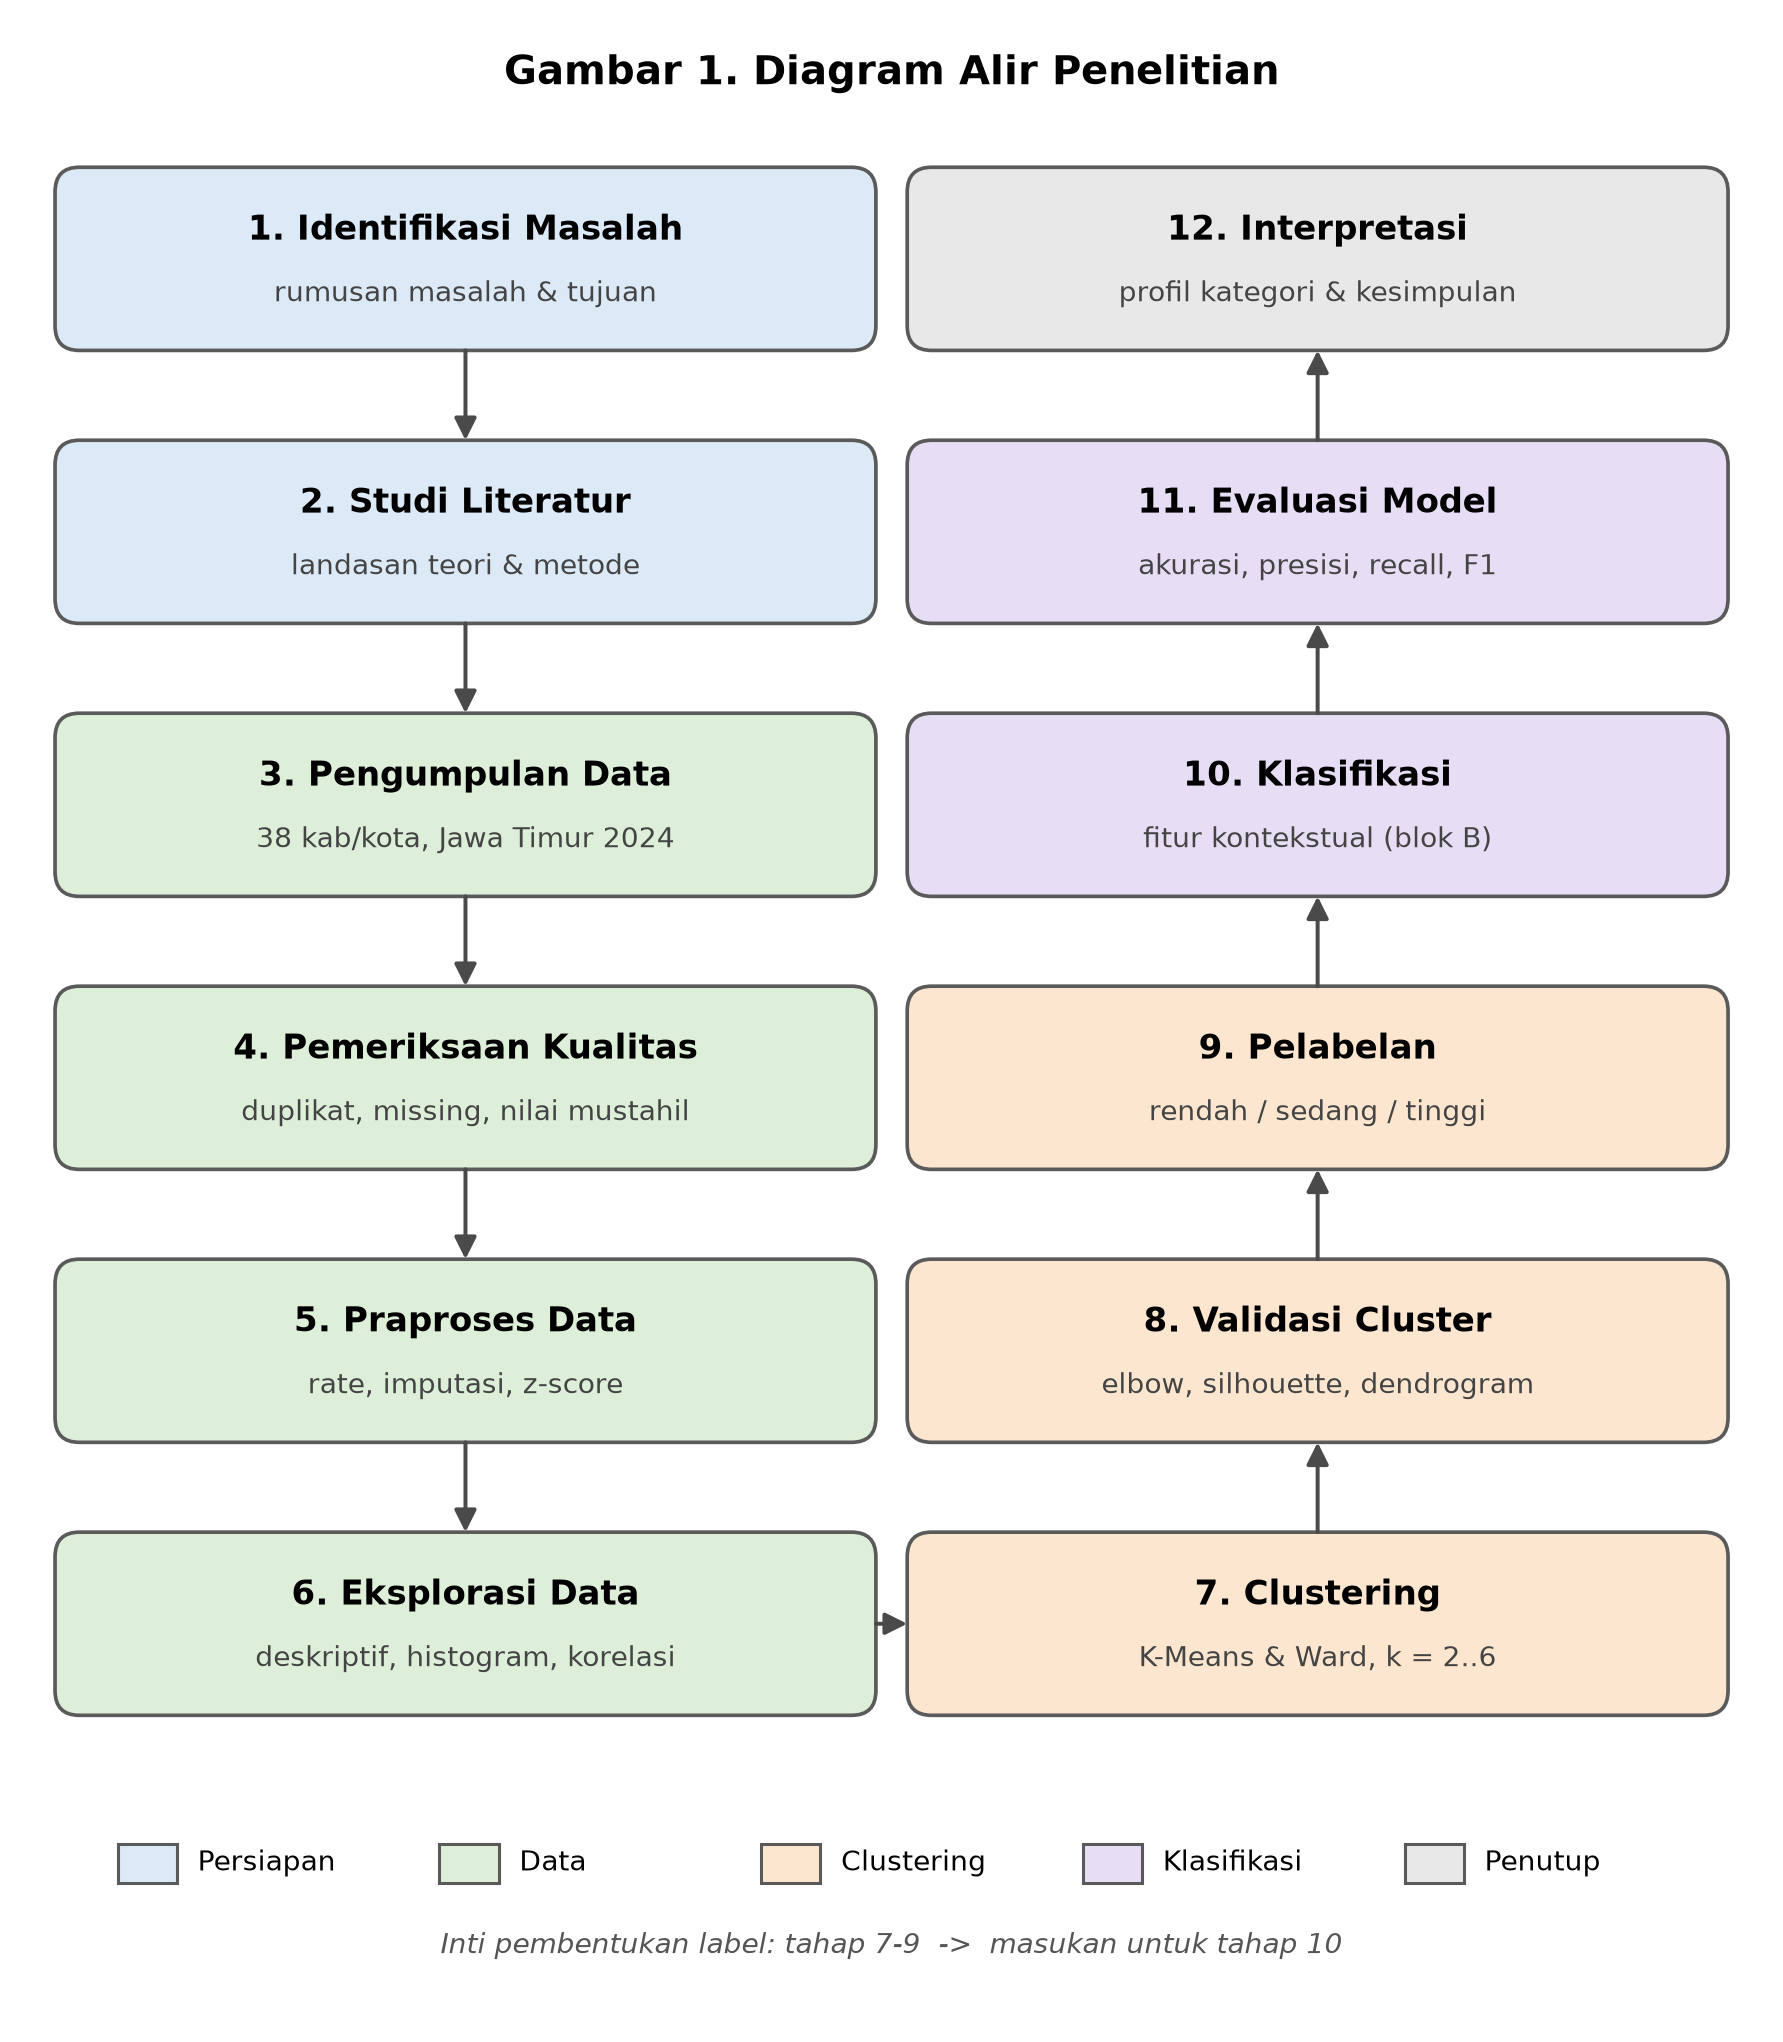
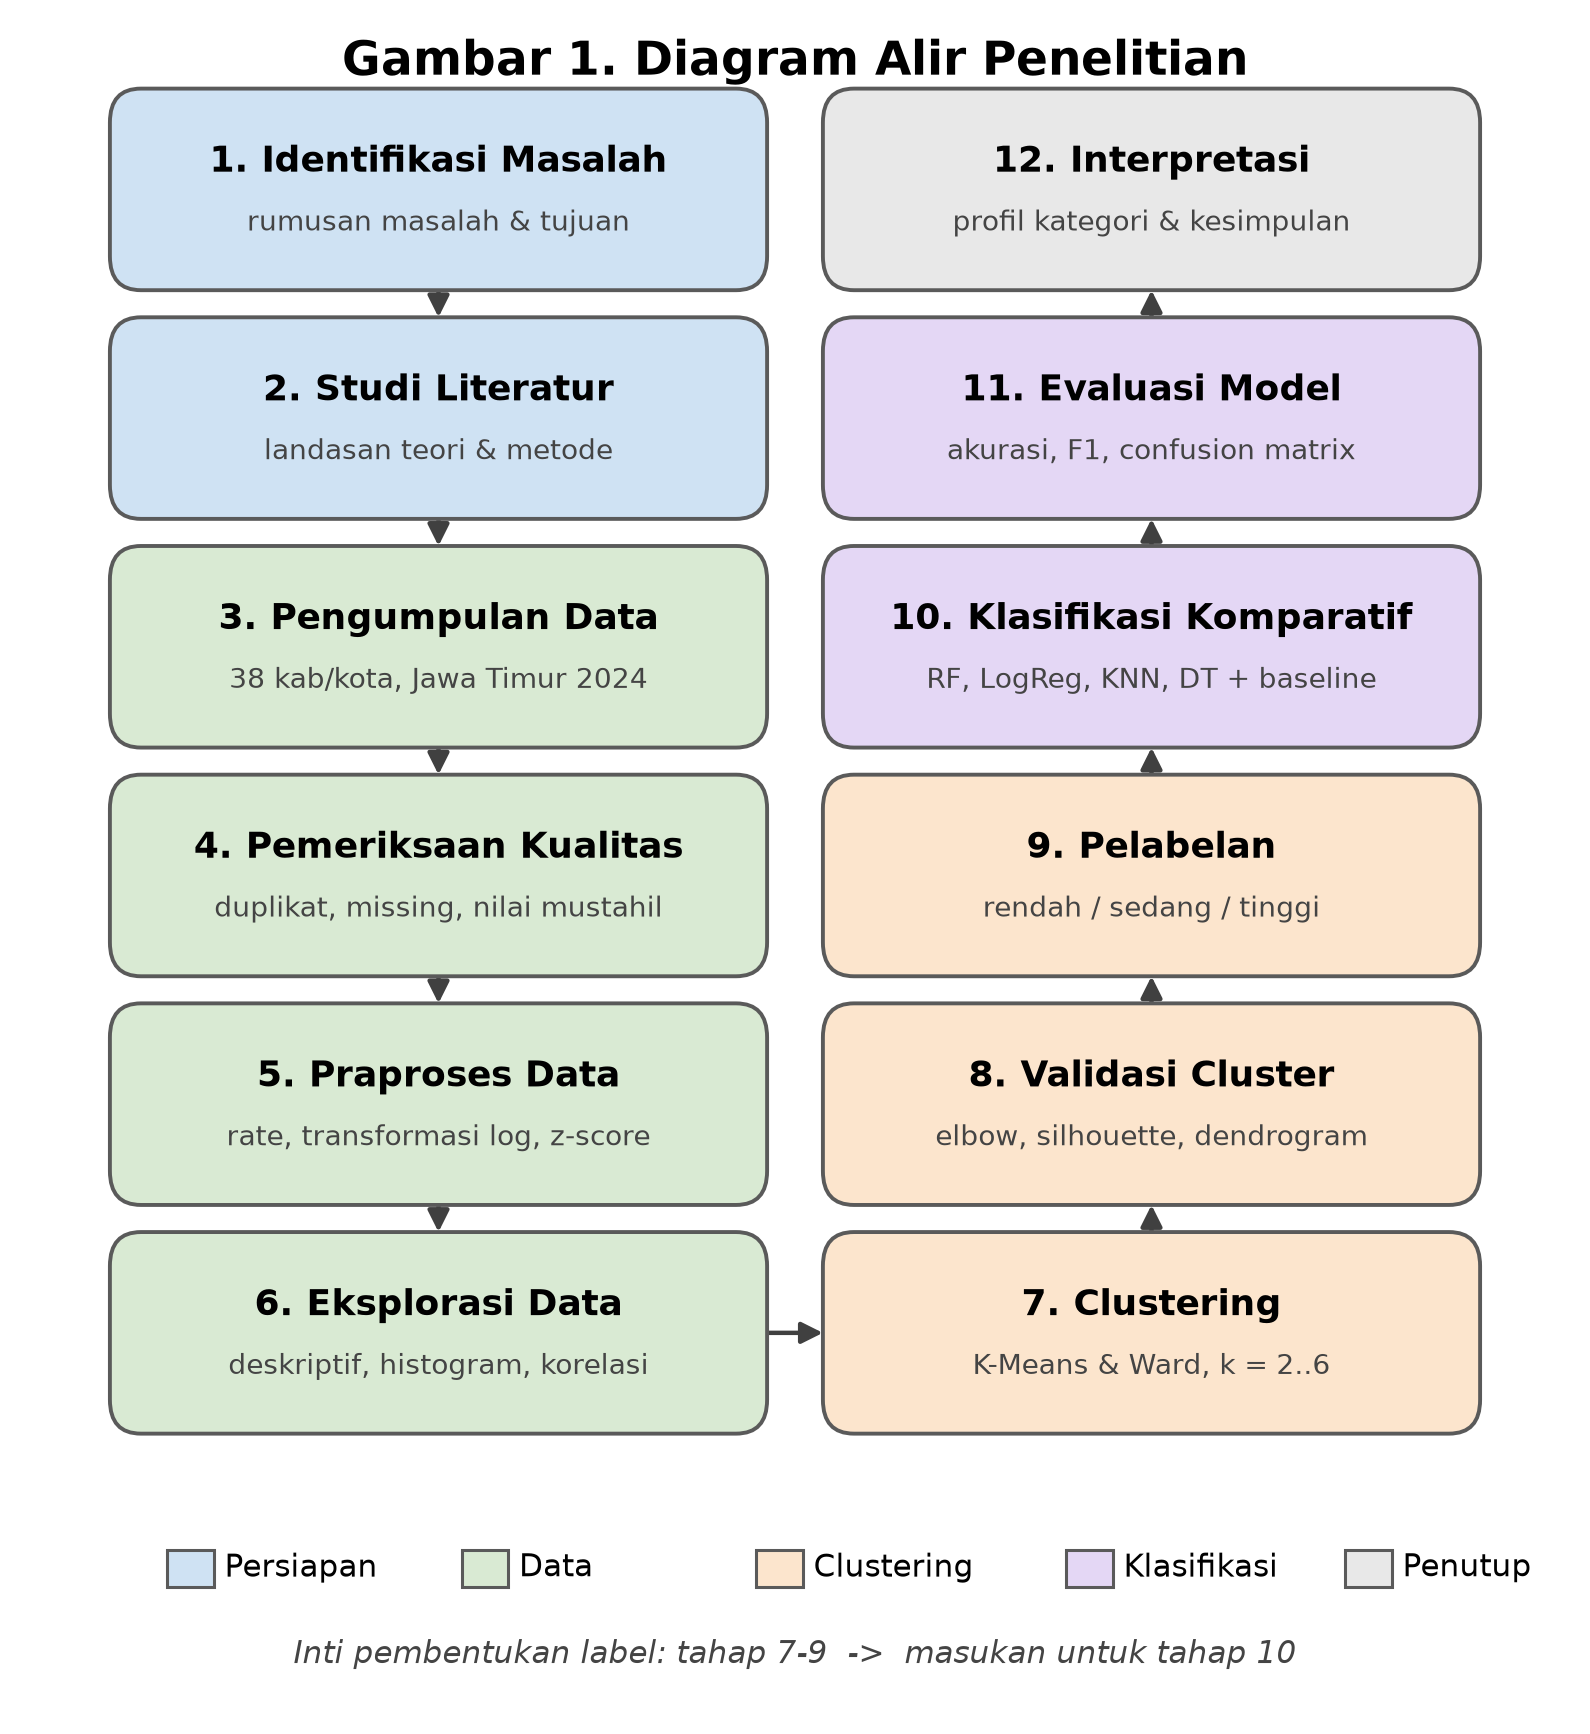
rbhan

diff --git a/scripts/buat_diagram_alir.py b/scripts/buat_diagram_alir.py
@@ -1,0 +1,118 @@
+"""Buat Gambar 1 (diagram alir penelitian) untuk proposal.
+
+Pakai:
+    python scripts/buat_diagram_alir.py
+
+Keluaran: output/figures/diagram_alir.png
+"""
+
+from pathlib import Path
+
+import matplotlib.patches as mpatches
+import matplotlib.pyplot as plt
+from matplotlib.patches import FancyArrowPatch, FancyBboxPatch
+
+OUT = Path("output/figures/diagram_alir.png")
+
+WARNA = {
+    "persiapan": "#cfe2f3",
+    "data": "#d9ead3",
+    "clustering": "#fce5cd",
+    "klasifikasi": "#e4d7f5",
+    "penutup": "#e8e8e8",
+}
+
+TAHAP = [
+    ("1. Identifikasi Masalah", "rumusan masalah & tujuan", "persiapan"),
+    ("2. Studi Literatur", "landasan teori & metode", "persiapan"),
+    ("3. Pengumpulan Data", "38 kab/kota, Jawa Timur 2024", "data"),
+    ("4. Pemeriksaan Kualitas", "duplikat, missing, nilai mustahil", "data"),
+    ("5. Praproses Data", "rate, transformasi log, z-score", "data"),
+    ("6. Eksplorasi Data", "deskriptif, histogram, korelasi", "data"),
+    ("7. Clustering", "K-Means & Ward, k = 2..6", "clustering"),
+    ("8. Validasi Cluster", "elbow, silhouette, dendrogram", "clustering"),
+    ("9. Pelabelan", "rendah / sedang / tinggi", "clustering"),
+    ("10. Klasifikasi Komparatif", "RF, LogReg, KNN, DT + baseline", "klasifikasi"),
+    ("11. Evaluasi Model", "akurasi, F1, confusion matrix", "klasifikasi"),
+    ("12. Interpretasi", "profil kategori & kesimpulan", "penutup"),
+]
+
+X_KIRI, X_KANAN = 0.27, 0.73
+Y = [0.90, 0.765, 0.63, 0.495, 0.36, 0.225]
+LEBAR, TINGGI = 0.40, 0.095
+
+
+def kotak(ax, x, y, judul, sub, warna):
+    ax.add_patch(FancyBboxPatch(
+        (x - LEBAR / 2, y - TINGGI / 2), LEBAR, TINGGI,
+        boxstyle="round,pad=0.012,rounding_size=0.02",
+        linewidth=1.4, edgecolor="#5a5a5a", facecolor=warna, zorder=2,
+    ))
+    ax.text(x, y + 0.016, judul, ha="center", va="center",
+            fontsize=13, fontweight="bold", zorder=3)
+    ax.text(x, y - 0.020, sub, ha="center", va="center",
+            fontsize=10, color="#444444", zorder=3)
+
+
+def panah(ax, x1, y1, x2, y2):
+    ax.add_patch(FancyArrowPatch(
+        (x1, y1), (x2, y2), arrowstyle="-|>", mutation_scale=16,
+        linewidth=1.6, color="#404040", shrinkA=0, shrinkB=0, zorder=1,
+    ))
+
+
+def main():
+    OUT.parent.mkdir(parents=True, exist_ok=True)
+    fig, ax = plt.subplots(figsize=(10, 11))
+    ax.set_xlim(0, 1)
+    ax.set_ylim(0, 1)
+    ax.axis("off")
+
+    ax.text(0.5, 0.975, "Gambar 1. Diagram Alir Penelitian",
+            ha="center", va="center", fontsize=17, fontweight="bold")
+
+    # kolom kiri: 1-6 turun
+    for i in range(6):
+        j, s, w = TAHAP[i]
+        kotak(ax, X_KIRI, Y[i], j, s, WARNA[w])
+
+    # kolom kanan: 7-12 naik (dari bawah ke atas)
+    kanan = TAHAP[6:]
+    for i, (j, s, w) in enumerate(kanan):
+        kotak(ax, X_KANAN, Y[5 - i], j, s, WARNA[w])
+
+    # panah vertikal kolom kiri
+    for i in range(5):
+        panah(ax, X_KIRI, Y[i] - TINGGI / 2 - 0.012,
+              X_KIRI, Y[i + 1] + TINGGI / 2 + 0.012)
+
+    # panah 6 -> 7 (horizontal)
+    panah(ax, X_KIRI + LEBAR / 2 + 0.012, Y[5],
+          X_KANAN - LEBAR / 2 - 0.012, Y[5])
+
+    # panah vertikal kolom kanan (naik)
+    for i in range(5):
+        panah(ax, X_KANAN, Y[5 - i] + TINGGI / 2 + 0.012,
+              X_KANAN, Y[5 - i - 1] - TINGGI / 2 - 0.012)
+
+    # legenda
+    label = [("Persiapan", "persiapan"), ("Data", "data"),
+             ("Clustering", "clustering"), ("Klasifikasi", "klasifikasi"),
+             ("Penutup", "penutup")]
+    xs = [0.13, 0.32, 0.51, 0.71, 0.89]
+    for x, (teks, kunci) in zip(xs, label):
+        ax.add_patch(mpatches.Rectangle((x - 0.035, 0.075), 0.030, 0.022,
+                                        facecolor=WARNA[kunci], edgecolor="#5a5a5a",
+                                        linewidth=1.1))
+        ax.text(x + 0.002, 0.086, teks, ha="left", va="center", fontsize=11)
+
+    ax.text(0.5, 0.035,
+            "Inti pembentukan label: tahap 7-9  ->  masukan untuk tahap 10",
+            ha="center", va="center", fontsize=11, style="italic", color="#444444")
+
+    fig.savefig(OUT, dpi=200, bbox_inches="tight", facecolor="white")
+    print("tersimpan:", OUT)
+
+
+if __name__ == "__main__":
+    main()
